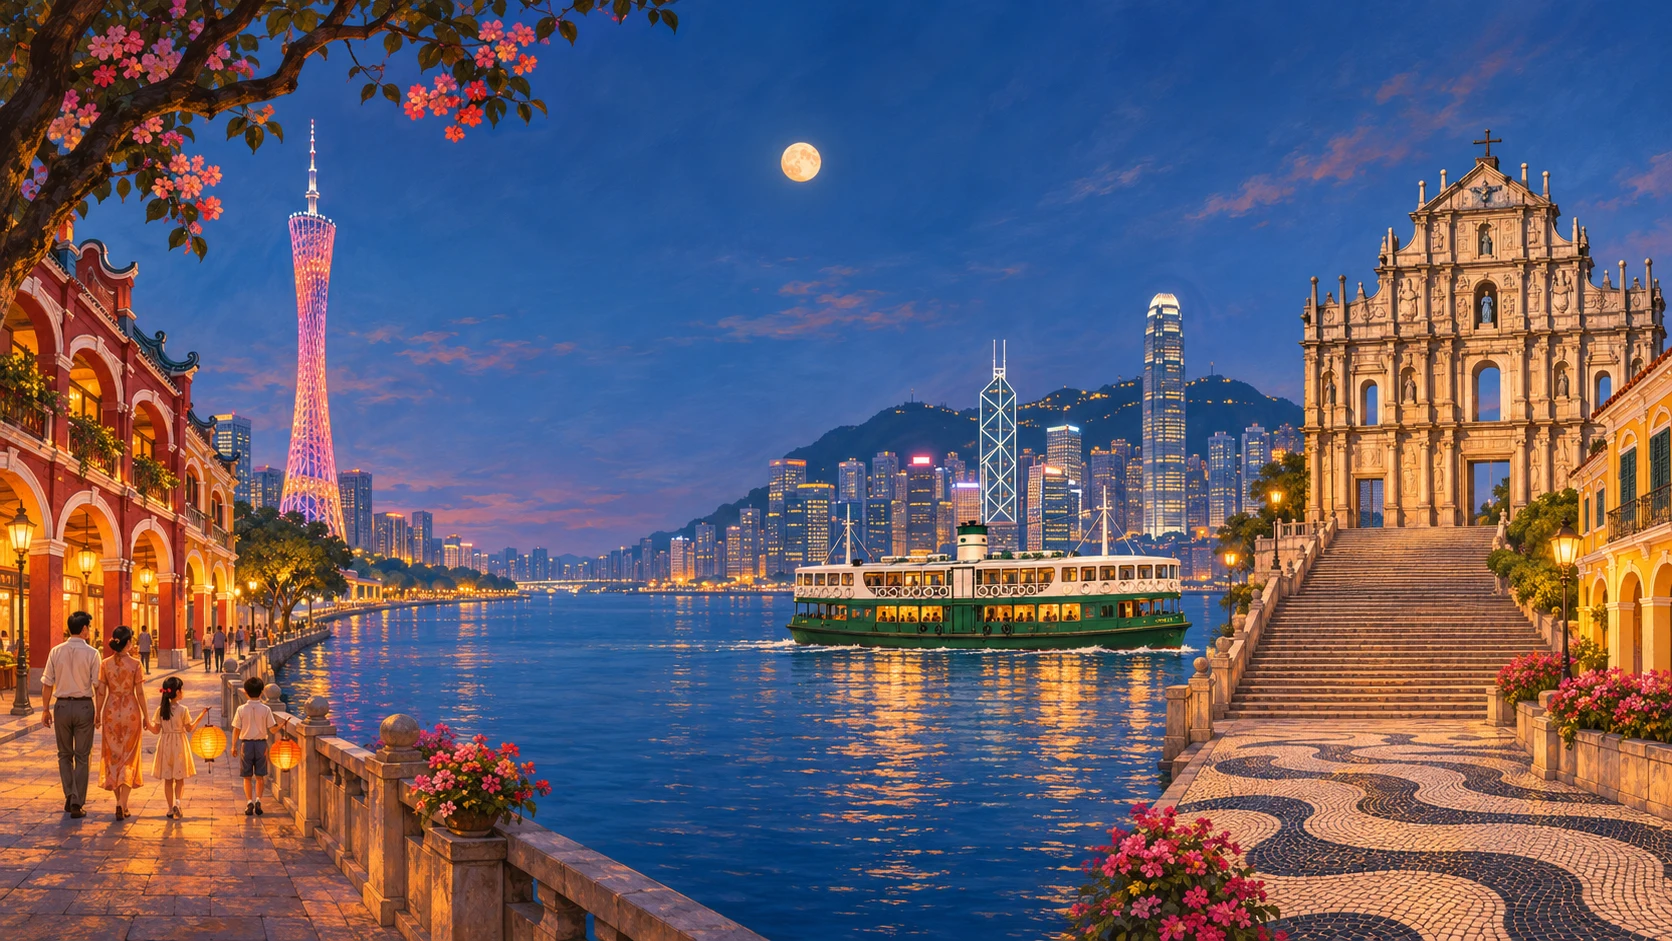
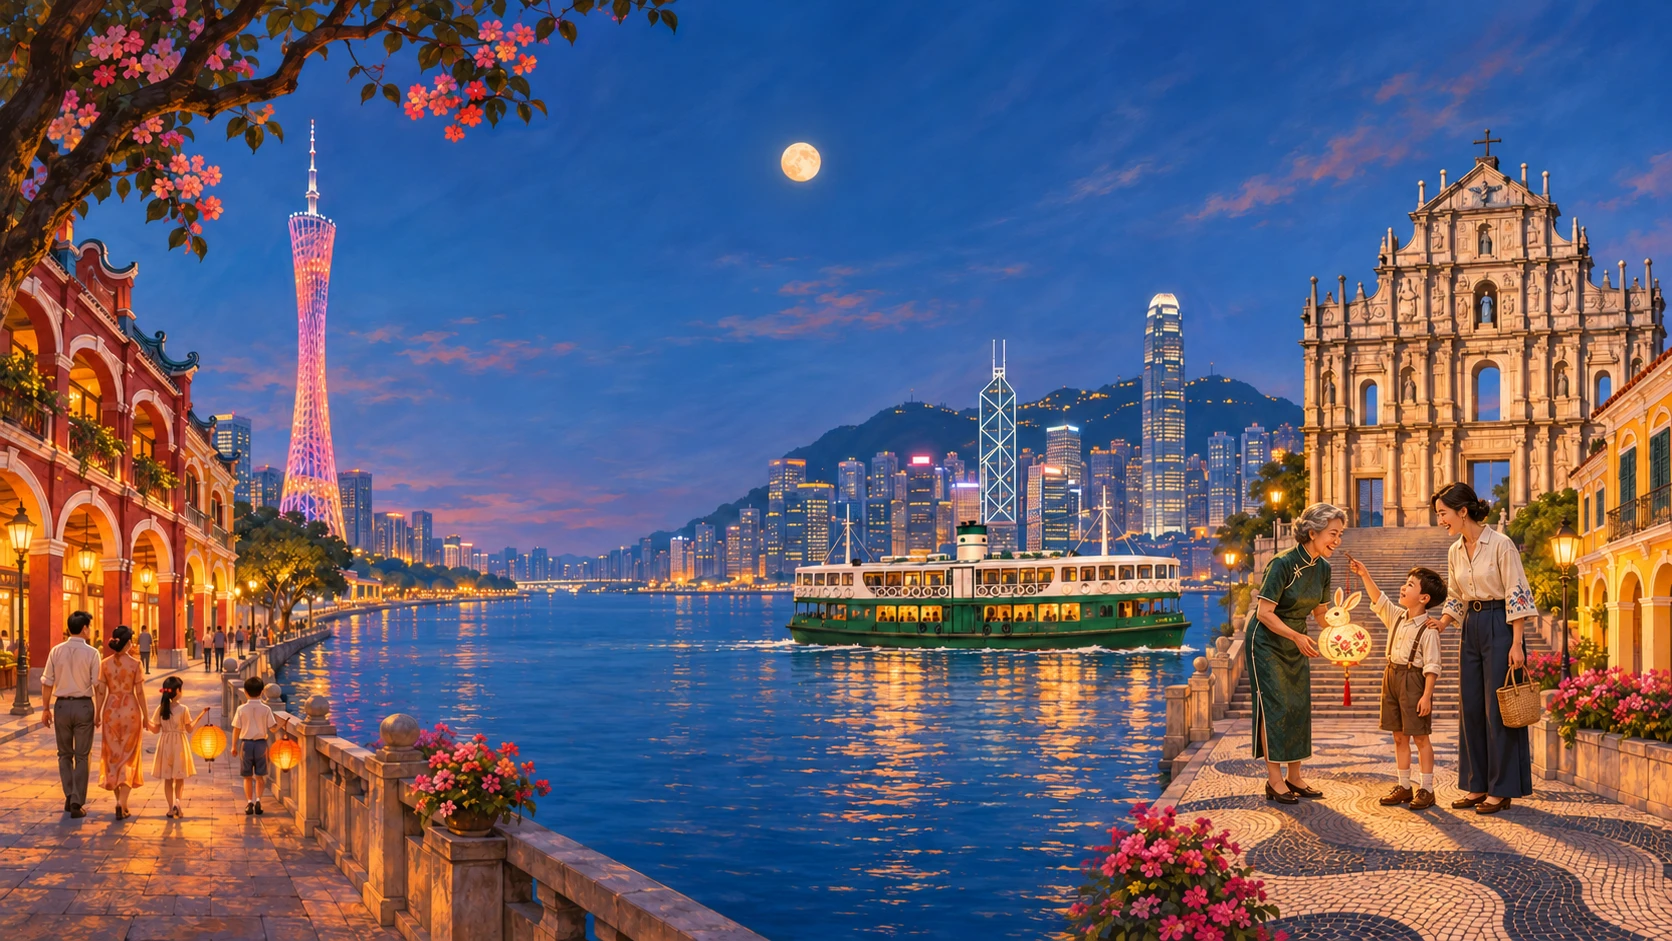
为港澳岸边增绘三代人共赏兔灯的中秋场景

diff --git a/frontend/index.html b/frontend/index.html
@@ -1,4 +1,4 @@
-<!doctype html><html lang="zh-CN"><head><script src="bridge.js?v=20261126-release15"></script><meta charset="utf-8"><meta name="viewport" content="width=device-width,initial-scale=1"><title>同频 · 从文化共鸣到风雨共济</title><link rel="stylesheet" href="style.css?v=20261126-release15"><link rel="stylesheet" href="chinese-theme.css?v=20261126-release15"><script defer src="experience-upgrade.js?v=20261126-release15"></script><script defer src="geography.js?v=20261126-release15"></script><script defer src="card-export.js?v=20261126-release15"></script><script defer src="app-v3.js?v=guide25"></script><link rel="stylesheet" href="experience.css?v=20261126-release15"><script defer src="refine.js?v=20261126-release15"></script><link rel="stylesheet" href="refine.css?v=20261126-release15"><script defer src="complete.js?v=20261126-release15"></script><link rel="stylesheet" href="complete.css?v=20261126-release15"><script defer src="revision.js?v=20261126-release15"></script><link rel="stylesheet" href="revision.css?v=20261126-release15"><script defer src="auto-archive.js?v=20261126-release15"></script><link rel="stylesheet" href="auto-archive.css?v=20261126-release15"><style>html,body{height:100%;overflow:auto}body{margin:0}</style><link rel="stylesheet" href="journey.css?v=20261126-release15"><script defer src="journey.js?v=20261126-release15"></script><link rel="stylesheet" href="experience-upgrade.css?v=20261126-release15"><link rel="stylesheet" href="scroll-theme.css?v=20261126-release15"><script defer src="scroll-theme.js?v=guide18"></script><link rel="stylesheet" href="reference-home.css?v=20261125-scroll4"><link rel="stylesheet" href="reference-detail.css?v=20261125-details7"><script defer src="reference-detail.js?v=20261125-details7"></script><link rel="stylesheet" href="festival-words.css?v=20261126-release15"><script defer src="festival-words.js?v=20261126-release15"></script><link rel="stylesheet" href="festival-discovery.css?v=20261125-12"><script defer src="festival-discovery.js?v=20261125-12"></script><link rel="stylesheet" href="chapter-layout.css?v=20261126-17"><script defer src="chapter-layout.js?v=20261126-17"></script><link rel="stylesheet" href="three-realms.css?v=20261126-16"><link rel="stylesheet" href="directory-fit.css?v=20261126-20"><script defer src="directory-fit.js?v=20261126-20"></script><link rel="stylesheet" href="function-design.css?v=20261126-36"><script defer src="function-design.js?v=landscapes2"></script><link rel="stylesheet" href="fidelity.css?v=20261126-36"><script defer src="fidelity.js?v=20261126-36"></script><link rel="stylesheet" href="display-scale.css?v=20261126-36"><link rel="stylesheet" href="directory-rich.css?v=20261126-36"><script defer src="directory-rich.js?v=20261126-36"></script><style>.scroll-edition #words .wooden-type{scale:1.25;transform-origin:right center} #qingjin{display:none}body[data-page=home] #qingjin{position:fixed;inset:0;z-index:99;display:grid;place-items:center;background:#113447}body[data-page=home]>header,body[data-page=home]>main,body[data-page=home]>p,body[data-page=home]>#floatingGuide{visibility:hidden}html:has(body[data-page=home]),body[data-page=home]{overflow:hidden!important}#qingjin .painting{position:relative;width:min(100vw,159.88dvh);aspect-ratio:1586/992}#qingjin img{width:100%;display:block}#qingjin button{position:absolute;background:transparent;border:0;box-shadow:none;padding:0}#qingjin button:focus-visible{outline:3px solid gold}#guide:not([hidden]){z-index:200!important}</style><script defer src="qingjin.js?v=chapter-scroll-1"></script><link rel="stylesheet" href="final-layout.css?v=chapter-subtitle-6"><link rel="stylesheet" href="festival-scenes.css"><script defer src="festival-scenes.js"></script><link rel="stylesheet" href="cover.css?v=harbor-gold6"></head><body>
+<!doctype html><html lang="zh-CN"><head><script src="bridge.js?v=20261126-release15"></script><meta charset="utf-8"><meta name="viewport" content="width=device-width,initial-scale=1"><title>同频 · 从文化共鸣到风雨共济</title><link rel="stylesheet" href="style.css?v=20261126-release15"><link rel="stylesheet" href="chinese-theme.css?v=20261126-release15"><script defer src="experience-upgrade.js?v=20261126-release15"></script><script defer src="geography.js?v=20261126-release15"></script><script defer src="card-export.js?v=20261126-release15"></script><script defer src="app-v3.js?v=guide25"></script><link rel="stylesheet" href="experience.css?v=20261126-release15"><script defer src="refine.js?v=20261126-release15"></script><link rel="stylesheet" href="refine.css?v=20261126-release15"><script defer src="complete.js?v=20261126-release15"></script><link rel="stylesheet" href="complete.css?v=20261126-release15"><script defer src="revision.js?v=20261126-release15"></script><link rel="stylesheet" href="revision.css?v=20261126-release15"><script defer src="auto-archive.js?v=20261126-release15"></script><link rel="stylesheet" href="auto-archive.css?v=20261126-release15"><style>html,body{height:100%;overflow:auto}body{margin:0}</style><link rel="stylesheet" href="journey.css?v=20261126-release15"><script defer src="journey.js?v=20261126-release15"></script><link rel="stylesheet" href="experience-upgrade.css?v=20261126-release15"><link rel="stylesheet" href="scroll-theme.css?v=20261126-release15"><script defer src="scroll-theme.js?v=guide18"></script><link rel="stylesheet" href="reference-home.css?v=20261125-scroll4"><link rel="stylesheet" href="reference-detail.css?v=20261125-details7"><script defer src="reference-detail.js?v=20261125-details7"></script><link rel="stylesheet" href="festival-words.css?v=20261126-release15"><script defer src="festival-words.js?v=20261126-release15"></script><link rel="stylesheet" href="festival-discovery.css?v=20261125-12"><script defer src="festival-discovery.js?v=20261125-12"></script><link rel="stylesheet" href="chapter-layout.css?v=20261126-17"><script defer src="chapter-layout.js?v=20261126-17"></script><link rel="stylesheet" href="three-realms.css?v=20261126-16"><link rel="stylesheet" href="directory-fit.css?v=20261126-20"><script defer src="directory-fit.js?v=20261126-20"></script><link rel="stylesheet" href="function-design.css?v=20261126-36"><script defer src="function-design.js?v=landscapes2"></script><link rel="stylesheet" href="fidelity.css?v=20261126-36"><script defer src="fidelity.js?v=20261126-36"></script><link rel="stylesheet" href="display-scale.css?v=20261126-36"><link rel="stylesheet" href="directory-rich.css?v=20261126-36"><script defer src="directory-rich.js?v=20261126-36"></script><style>.scroll-edition #words .wooden-type{scale:1.25;transform-origin:right center} #qingjin{display:none}body[data-page=home] #qingjin{position:fixed;inset:0;z-index:99;display:grid;place-items:center;background:#113447}body[data-page=home]>header,body[data-page=home]>main,body[data-page=home]>p,body[data-page=home]>#floatingGuide{visibility:hidden}html:has(body[data-page=home]),body[data-page=home]{overflow:hidden!important}#qingjin .painting{position:relative;width:min(100vw,159.88dvh);aspect-ratio:1586/992}#qingjin img{width:100%;display:block}#qingjin button{position:absolute;background:transparent;border:0;box-shadow:none;padding:0}#qingjin button:focus-visible{outline:3px solid gold}#guide:not([hidden]){z-index:200!important}</style><script defer src="qingjin.js?v=chapter-scroll-1"></script><link rel="stylesheet" href="final-layout.css?v=chapter-subtitle-6"><link rel="stylesheet" href="festival-scenes.css"><script defer src="festival-scenes.js"></script><link rel="stylesheet" href="cover.css?v=harbor-families7"></head><body>
 <header><a class="brand" href="#home"><span class="mark seal-mark">同<span>频</span></span><b>同频<small>TONG PIN</small></b></a><nav aria-label="主导航"><button data-page="home" class="active">首页</button><button data-page="culture">文化回声</button><button data-page="words">同物异名</button><button data-page="storm">同一场风</button><button id="guideNav">同频向导 ↗</button><button id="sourcesBtn" type="button">资料来源与出处</button></nav><span class="status">历史资料 · 共同理解</span></header><main><section id="home" class="page"><div class="hero"><div><div class="eyebrow">山海相望 · 心意相通</div><h1>从文化共鸣，<br>到<span>风雨共济。</span></h1><p>认识不同地方的节日与表达，<br>读懂同一场台风下，各地怎样提醒市民。</p><div class="access-versions"><span>网页版</span></div><button class="primary" id="start">开始同频 ↓</button></div><div class="culture-art" aria-hidden="true"><svg viewBox="0 0 520 360" xmlns="http://www.w3.org/2000/svg"><defs><linearGradient id="jade" x2="0" y2="1"><stop stop-color="#5e8e85"/><stop offset="1" stop-color="#174f50"/></linearGradient><linearGradient id="silk" x2="1" y2="1"><stop stop-color="#f1d4b2"/><stop offset="1" stop-color="#e5b898"/></linearGradient><clipPath id="window"><circle cx="266" cy="174" r="148"/></clipPath></defs><path d="M31 74h40m-20-20v40M440 290h40m-20-20v40" stroke="#bb925c" opacity=".5"/><circle cx="266" cy="174" r="159" fill="none" stroke="#c09b65" opacity=".45"/><circle cx="266" cy="174" r="148" fill="url(#silk)"/><g clip-path="url(#window)"><circle cx="296" cy="103" r="58" fill="#fff2cc"/><path d="M80 268L172 147l53 70 56-42 79 100 67-121 68 160v70H60Z" fill="#90aaa0"/><path d="M60 315l131-99 54 54 65-59 53 63 70-51 64 110v60H60Z" fill="url(#jade)"/><path d="M70 302c72-24 94 17 150-3s74-7 120 5 77-22 145-8M73 325c69-23 109 16 166-1s88-8 145 3 68-13 101-12" fill="none" stroke="#e8d4a6" stroke-width="1.2" opacity=".55"/><g fill="none" stroke="#fff4db" stroke-width="1.8" opacity=".7"><path d="M123 129h57c28 0 24-25 8-25-12 0-18 13-10 18h-67M327 164h60c21 0 22-20 8-20-11 0-15 10-10 14h-49"/></g></g><circle cx="266" cy="174" r="148" fill="none" stroke="#a77946" stroke-width="3"/><path d="M112 174H90m352 0h-22M266 18V1m0 346v13" stroke="#b18b58"/><rect x="395" y="62" width="40" height="57" rx="3" fill="#b65342"/><text x="415" y="86" fill="#fff3df" font-size="19" text-anchor="middle" font-family="KaiTi,serif">同</text><text x="415" y="109" fill="#fff3df" font-size="19" text-anchor="middle" font-family="KaiTi,serif">心</text><text x="61" y="150" fill="#906d4c" font-size="13" font-family="KaiTi,serif" writing-mode="tb" letter-spacing="7">山海相望</text><text x="468" y="185" fill="#906d4c" font-size="13" font-family="KaiTi,serif" writing-mode="tb" letter-spacing="7">心意相通</text></svg><span>一轮明月 · 万里同心</span></div></div><div id="entrances" class="entrances"><button data-enter="culture"><small>壹 / 认识彼此</small><h2>一起过个节</h2><p>认识九个节日，用两个人的视角共写一张卡。</p><span>探索节日文化 →</span></button><button data-enter="words"><small>贰 / 理解表达</small><h2>换个说法，也懂你</h2><p>在科技、出行和饮食情境里，比较不同表达。</p><span>认识不同说法 →</span></button><button data-enter="storm"><small>叁 / 关心彼此</small><h2>同一场风，一起读懂</h2><p>回放116场真实台风，阅读已核实的预警案例。</p><span>查看台风故事 →</span></button></div></section><section id="culture" class="page" hidden><div class="page-heading"><div class="eyebrow">壹 / 节日文化</div><h1>一个节日，<span>许多种过法。</span></h1><p>先认识节日，再留下自己的记忆。阅读曲线只是可选的传播观察。</p></div><div class="festival-tabs" id="festivalTabs"></div><article class="festival-story panel"><div class="festival-illustration" aria-hidden="true"><span id="festGlyph">月</span><small>岁时有序 · 人间有情</small></div><div><div class="eyebrow" id="festTheme"></div><h2 id="festName"></h2><p id="festIntro"></p><div class="festival-facts"><span id="festDate"></span><span>各地习俗有差异，欢迎补充自己的体验</span></div><a id="festSource" target="_blank" rel="noopener">阅读背景资料 ↗</a><button class="primary" id="goCreate">与朋友制作节日卡 ↓</button></div></article><details class="panel observation" id="observation"><summary>传播观察：人们什么时候查阅这个节日？<span>可选数据视图 ＋</span></summary><p>曲线展示维基百科条目的访问次数，帮助观察节日前后的查阅变化。它不代表地区人数、喜爱程度或文化认同；高峰与节日接近，也不能单凭曲线解释原因。</p><div class="panel-top"><b id="chartTitle"></b><select id="chartMode" aria-label="图表口径"><option value="raw">访问次数</option><option value="relative">相对全年中位数</option></select></div><div class="legend"><span>● 中文页面</span><span>● English页面</span></div><svg id="chart" viewBox="0 0 800 250" role="img" aria-label="节日页面每日浏览量曲线"></svg><label class="date-control">日期 <input type="range" id="day" min="0" max="365" value="260"><output id="date"></output></label><div id="dayValues" class="metrics"></div><div id="articleLinks"></div><p class="note">数据：Wikimedia API · 2024年。冬至英文条目讨论全球冬至现象，不限于中华节俗；不同条目范围不能直接当作同等文化关注。</p></details>
 <article class="panel coedit-v3" id="createSection"><div class="eyebrow">一起制作 / 不同设备也能加入</div><h2>你家怎么过？听听彼此的故事。</h2><p>创建卡片后，把邀请链接发给朋友。你们各自填写内容并确认，再导出共同的节日卡。</p><div class="room-controls"><button class="primary" id="createRoom">创建共创卡片</button><button class="secondary" id="localMode">先在这台设备试做</button><span id="roomStatus" role="status">尚未创建在线卡片</span></div><div id="invitation" hidden><label>邀请链接<input id="inviteLink" readonly></label><button id="copyInvite" class="secondary">复制邀请链接</button><p class="note">链接含编辑凭证，请只发给参与者。七天后过期；站点已公开。对方打开邀请链接即可加入，只能编辑自己的内容。</p></div><div class="coedit-fields"><label>我的一句标题<input id="sharedTitle" autocomplete="off" maxlength="60" placeholder="给这次相遇起个名字"></label><label>我的节日故事<textarea id="myVoice" autocomplete="off" maxlength="220" placeholder="例如：我家中秋会……我最想介绍的是……"></textarea></label><div class="partner"><small>另一位参与者</small><h3 id="partnerTitle">等待另一种视角</h3><p id="partnerVoice">在线模式下，对方保存后会自动同步到这里。</p><span id="partnerApproval">尚未确认</span></div></div><div class="room-controls"><button id="saveVoice" class="primary">保存我的内容</button><label><input type="checkbox" id="approve"> 我确认自己的内容</label><button id="cultureCard" class="secondary">预览共同卡片</button></div><p id="saveResult" role="status"></p></article></section><section id="words" class="page" hidden><div class="page-heading"><div class="eyebrow">贰 / 不同说法</div><h1>说法不同，<span>也能相互理解。</span></h1><p>先选一个生活情境，再看看同一概念的不同表达。这里是词汇示例，不是每个人的统一说法。</p></div><div class="festival-tabs" id="wordFilters"></div><div class="word-cards" id="wordCards"></div><div class="panel word-note"><h2>字形变化，不一定是词汇变化。</h2><p>这里的对应来自OpenCC地区词汇词典，使用时仍应看具体语境，不据标签推断个人身份。</p><a target="_blank" rel="noopener" href="https://github.com/BYVoid/OpenCC/blob/master/data/dictionary/TWPhrases.txt">查看词典与来源 ↗</a></div></section><section id="storm" class="page" hidden><div class="storm-heading"><div><div class="eyebrow">贰 · 风雨同行 / THROUGH THE STORM</div><h1>同一场风，<span>一起读懂。</span></h1><p>你窗外的风，也许正经过远方家人的城市。了解同一场台风在各地的名称与预警，让一份牵挂，跨越山海。</p></div><button class="secondary" id="stormCard">整理历史沟通卡 ↗</button></div><div class="storm-grid"><article class="panel map-panel"><div class="panel-top"><label class="storm-picker">历史台风<select id="stormSelect" aria-label="选择历史台风"><option value="KOINU">小犬 KOINU / 2023</option><option value="HATO">天鸽 HATO / 2017</option><option value="MANGKHUT">山竹 MANGKHUT / 2018</option></select></label><span class="pill">历史回放</span></div><div id="map"><svg id="fallback" viewBox="0 0 900 480" role="img" aria-label="台风经纬度轨迹示意图"></svg><span id="mapNotice">地理底图与历史路径</span></div><div class="playbar"><button id="play" class="primary">▶ 播放</button><input id="time" type="range" min="0" max="1" value="0" aria-label="台风回放时间"><select id="speed" aria-label="播放速度"><option value="1">1×</option><option value="3">3×</option></select></div><div id="point" class="metrics"></div><p class="note">NOAA IBTrACS最佳路径；位置为历史离散记录。台风标记大小不代表实际风圈。海岸线底图随站点提供，鼠标滚轮缩放、拖动平移，也可使用右上角按钮；不显示行政边界。</p></article><aside class="panel signals"><div class="eyebrow">看见信号，也看见它的边界</div><h2>台风同名，预警各有含义。</h2><div class="region-tabs"><button data-region="hk" class="selected">香港</button><button data-region="mo">澳门</button><button data-region="tw">台湾地区</button><button data-region="gd">大陆</button></div><div id="signalContent"></div><div class="divider"></div><h3 id="eventHeading">当地已核验记录</h3><div id="events"></div><p class="note">只显示有官方依据的事件；未取得记录不代表当地没有预警。时间为当地时间 UTC+8。</p></aside></div><article class="panel learn"><div class="eyebrow">先了解，再比较</div><h2>香港挂八号风球，澳门一定也挂八号吗？</h2><p>不一定。同一台风到各地的距离、当地风况和发布条件可能不同。先看地点与时间，再读当地信号。</p><div class="comparison-example" id="comparisonExample"></div><details><summary>想试一题？</summary><p>看到异地朋友发来的预警，你首先应该做什么？</p><button data-answer="wrong" class="secondary">直接换成我熟悉的颜色等级</button><button data-answer="right" class="primary">确认地点、发布时间和当地解释</button><p id="feedback" role="status"></p></details></article></section><footer><div id="footer-signature"><b>同频</b><span>从文化共鸣，到风雨共济。</span></div></footer></main><button id="floatingGuide" class="guide-fab">✦ 同频向导</button><aside id="guide" hidden aria-label="同频向导"><div class="guide-head"><div><b>同频向导</b><small id="aiStatus">正在检查连接</small></div><button id="closeGuide" aria-label="关闭向导">×</button></div><div class="guide-body"><p>让问题带你看见依据。</p><div class="suggestions"><button data-q="八号风球可以换算成橙色预警吗？">读懂信号差异</button><button data-q="播放小犬接近香港的过程">在地图上看小犬</button><button data-q="这些浏览量代表各地区青年吗？">理解数据边界</button></div><div id="messages" aria-live="polite"></div></div><label class="note"><input id="webSearch" type="checkbox"> 启用联网搜索（需模型支持）</label><form id="chatForm"><label class="sr-only" for="question">向导问题</label><input id="question" maxlength="1600" placeholder="聊知识、查词语，或问任何想了解的问题…" required><button class="primary" id="send">发送</button></form><p class="note">支持通用问答；联网引用可查证，时效信息请核对发布机构与日期。</p></aside>
 <dialog id="modal"><button id="closeModal" aria-label="关闭弹窗">×</button><div id="modalContent"></div></dialog><div id="qingjin"><article class="folio"><div class="preface"><h1><img src="assets/tongpin-landmarks.webp" alt="同频"></h1><p>从文化共鸣，到风雨共济</p><button class="enter" data-cover="chapters">展开作品目录</button></div><nav aria-label="直接进入章节">

diff --git a/frontend/cover.css b/frontend/cover.css
@@ -8,7 +8,7 @@ body[data-page=home] #qingjin {
 }
 #qingjin .folio::before {
   content:""; position:absolute; z-index:-2; inset:0;
-  background:url('assets/estuary-scene.webp') center center/cover no-repeat;
+  background:url('assets/estuary-scene.webp?v=families') center center/cover no-repeat;
   filter:blur(.75px);
 }
 #qingjin .folio::after {
